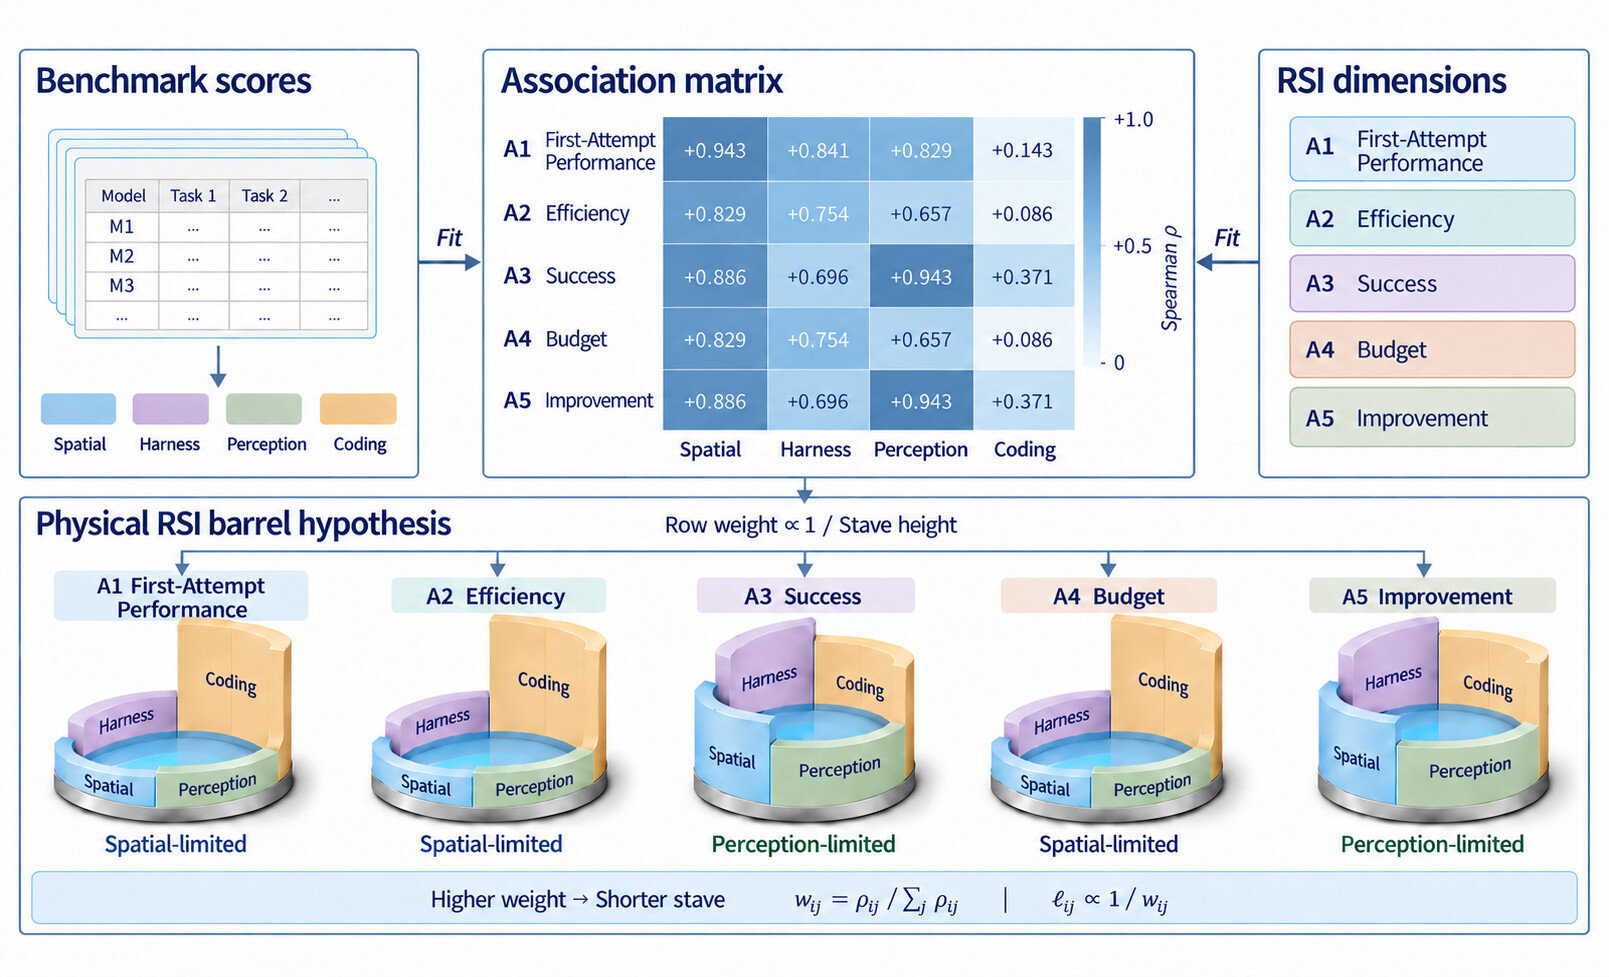
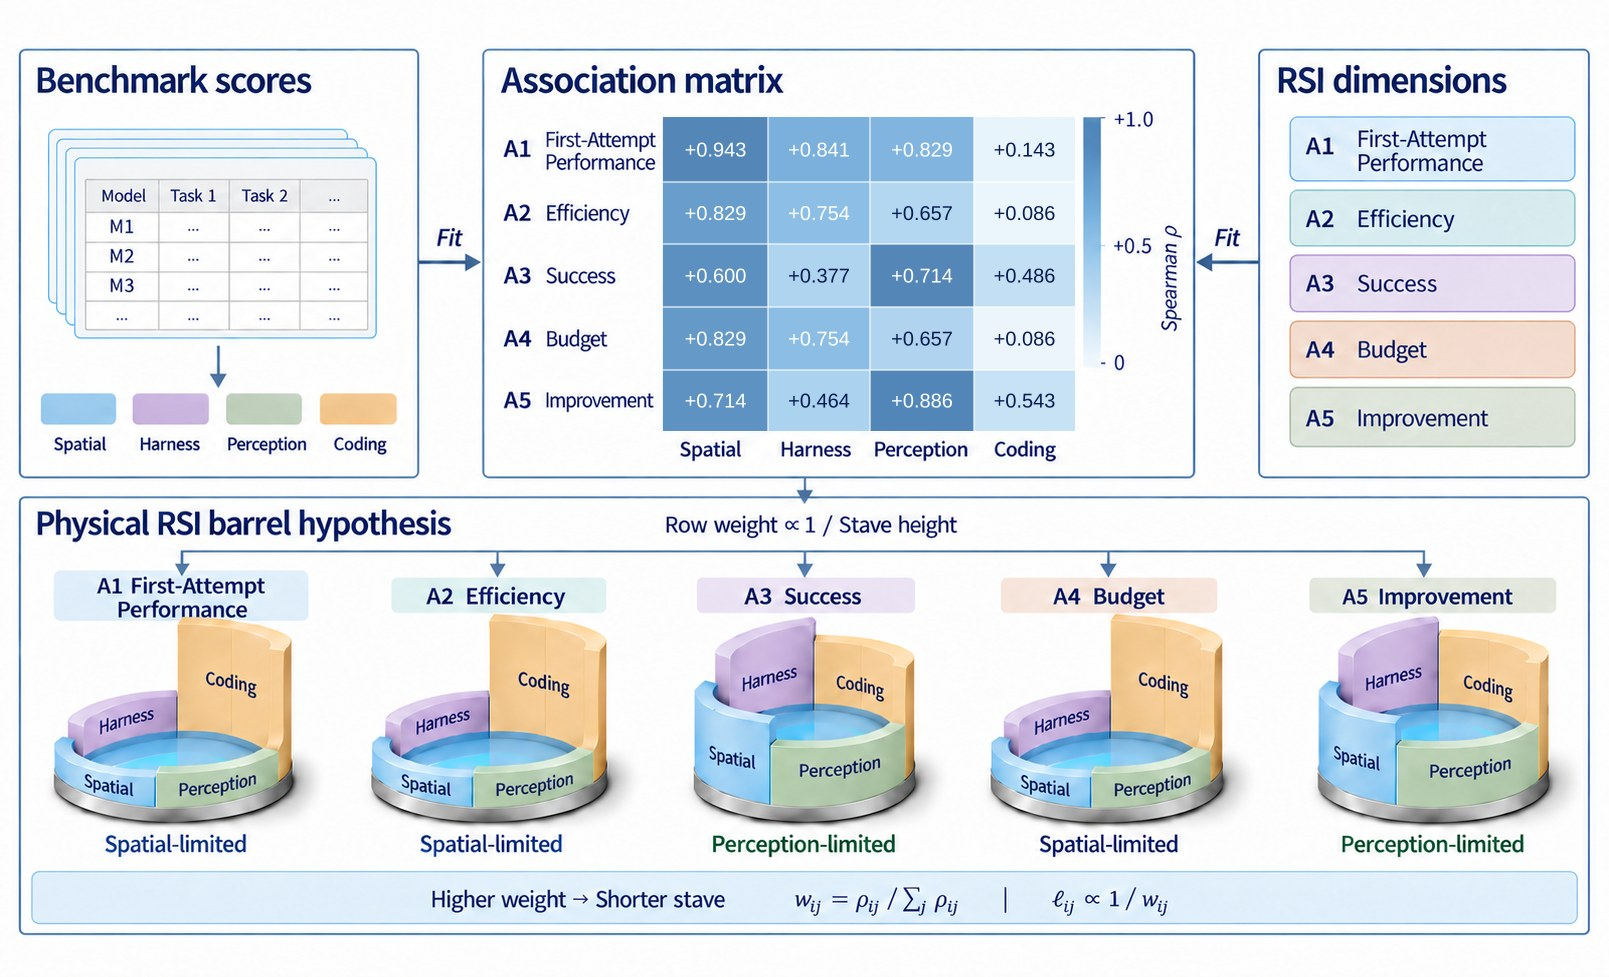
Sync with Overleaf: revised capability-association matrix (Fig. 4) and Q1 correlations; re-export teaser

diff --git a/index.html b/index.html
@@ -238,8 +238,8 @@
         <h2><span class="qn">Q1:</span> Where is Physical RSI capability from?</h2>
         <div class="grid3">
           <div class="card"><span class="tag">Spatial</span><div class="big">&rho; = 0.94</div><p>with A1; 0.83 with A2 and A4</p></div>
-          <div class="card"><span class="tag">Perception</span><div class="big">&rho; = 0.94</div><p>with A3 and A5</p></div>
-          <div class="card"><span class="tag">Coding</span><div class="big">&rho; &le; 0.37</div><p>weakest association with every axis</p></div>
+          <div class="card"><span class="tag">Perception</span><div class="big">&rho; = 0.89</div><p>with A5; 0.71 with A3</p></div>
+          <div class="card"><span class="tag">Coding</span><div class="big">&rho; &le; 0.14</div><p>weakest association with A1, A2 and A4</p></div>
         </div>
         <div class="split" style="margin-top:20px">
           <div class="col">
